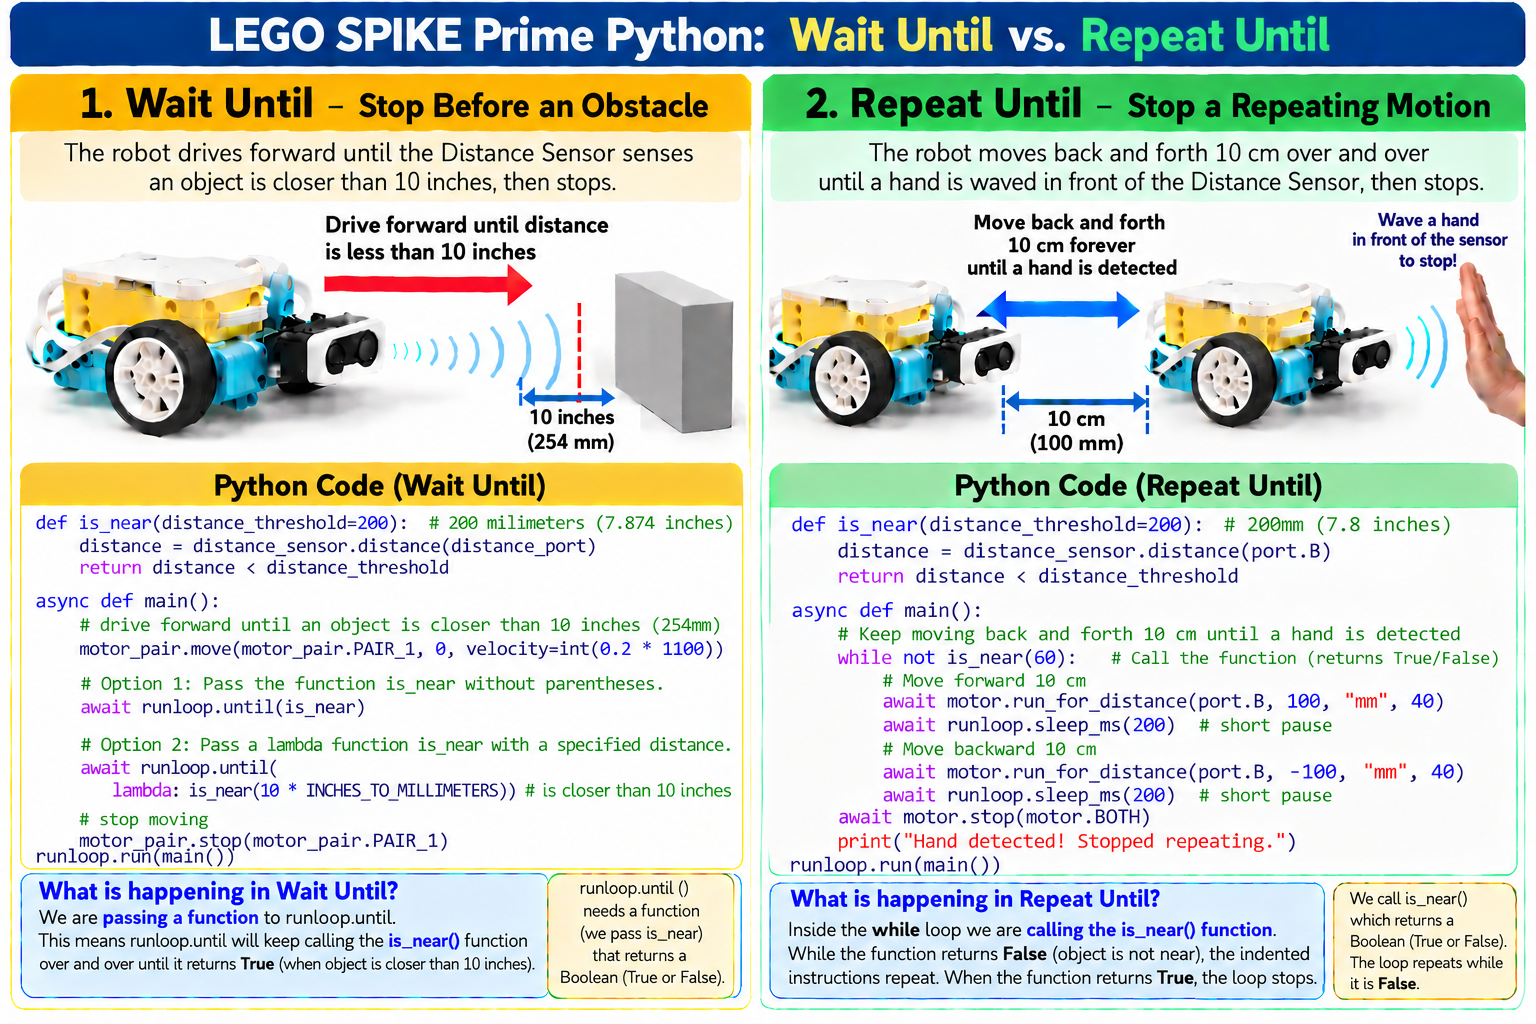
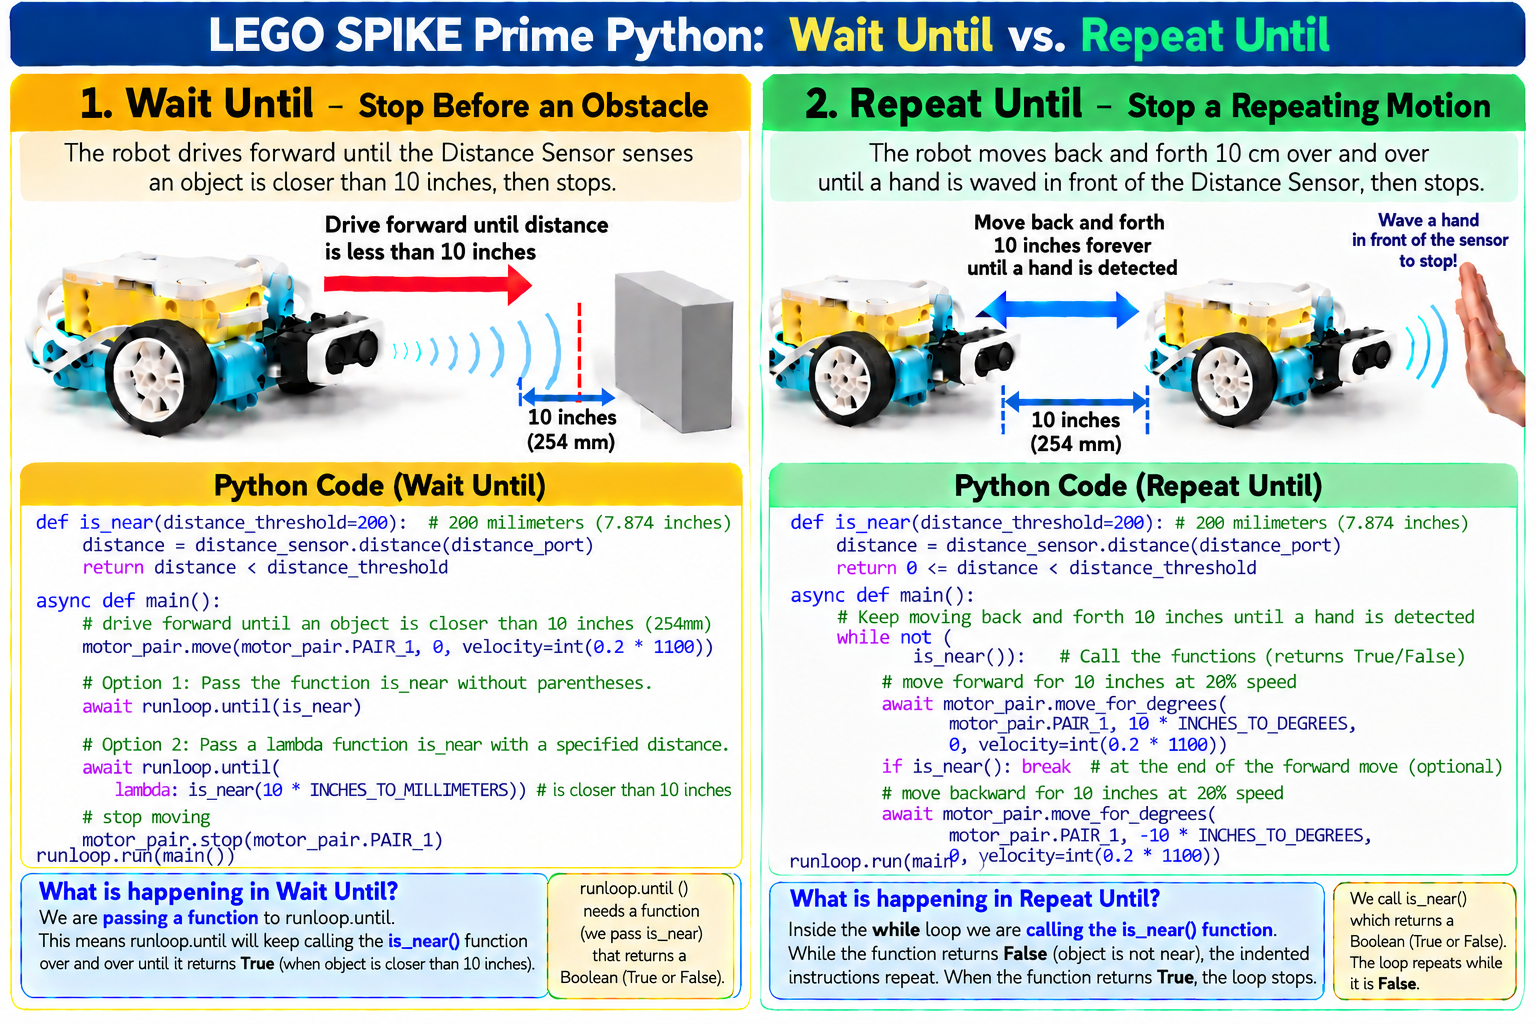
Publish-Spike-Editor

diff --git a/scripts/spike-shared.js b/scripts/spike-shared.js
@@ -1154,7 +1154,7 @@ when`
                     color: '#DAA520',
                     textPython: `
     # repeat until "repeat the block until function is true"
-    while not # <your sensor function here> 
+    while not ( 
 `
                 },
             ]
@@ -1216,8 +1216,7 @@ when`
                     buttonText: 'is near (function)',
                     emoji: '🧿',
                     color: '#87CEEB',
-                    textPython: `is_near():
-        # your repeat block here
+                    textPython: `           is_near()):
         `
                 },
                 {

diff --git a/training_camp.html b/training_camp.html
@@ -197,7 +197,7 @@
                 },
                 groups: {
                     3: ['light1', 'light2', 'light3', 'light4'],
-                    6: ['control1', 'control5'],
+                    6: ['control1', 'control5','control6'],
                     7: ['sensor1', 'sensor2', 'sensor3', 'sensor3a', 'sensor4', 'sensor5', 'sensor6'],
                     12: ['gettingstarted4']
                 }
